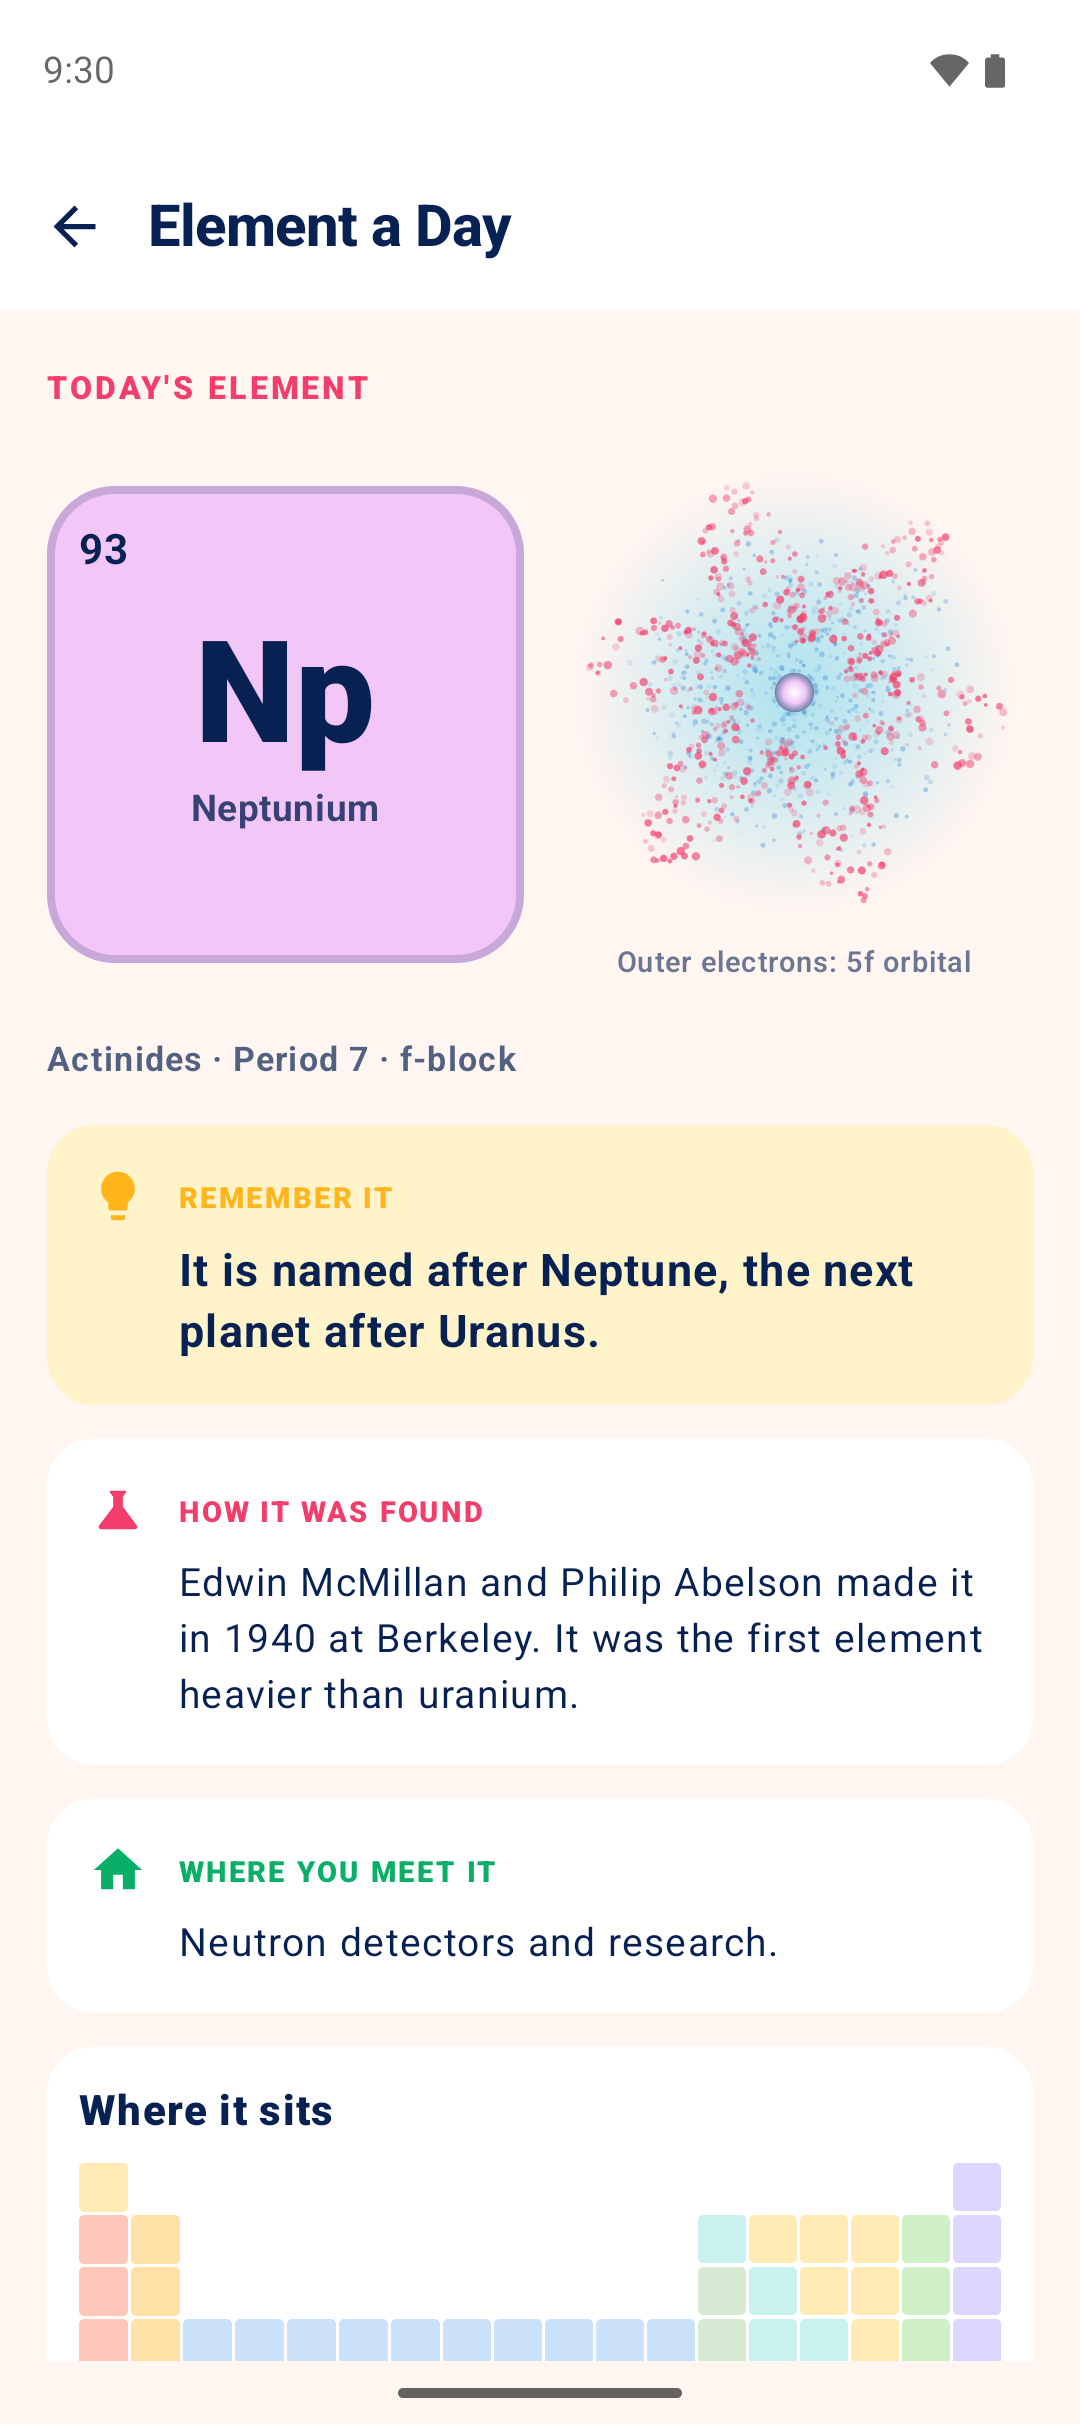
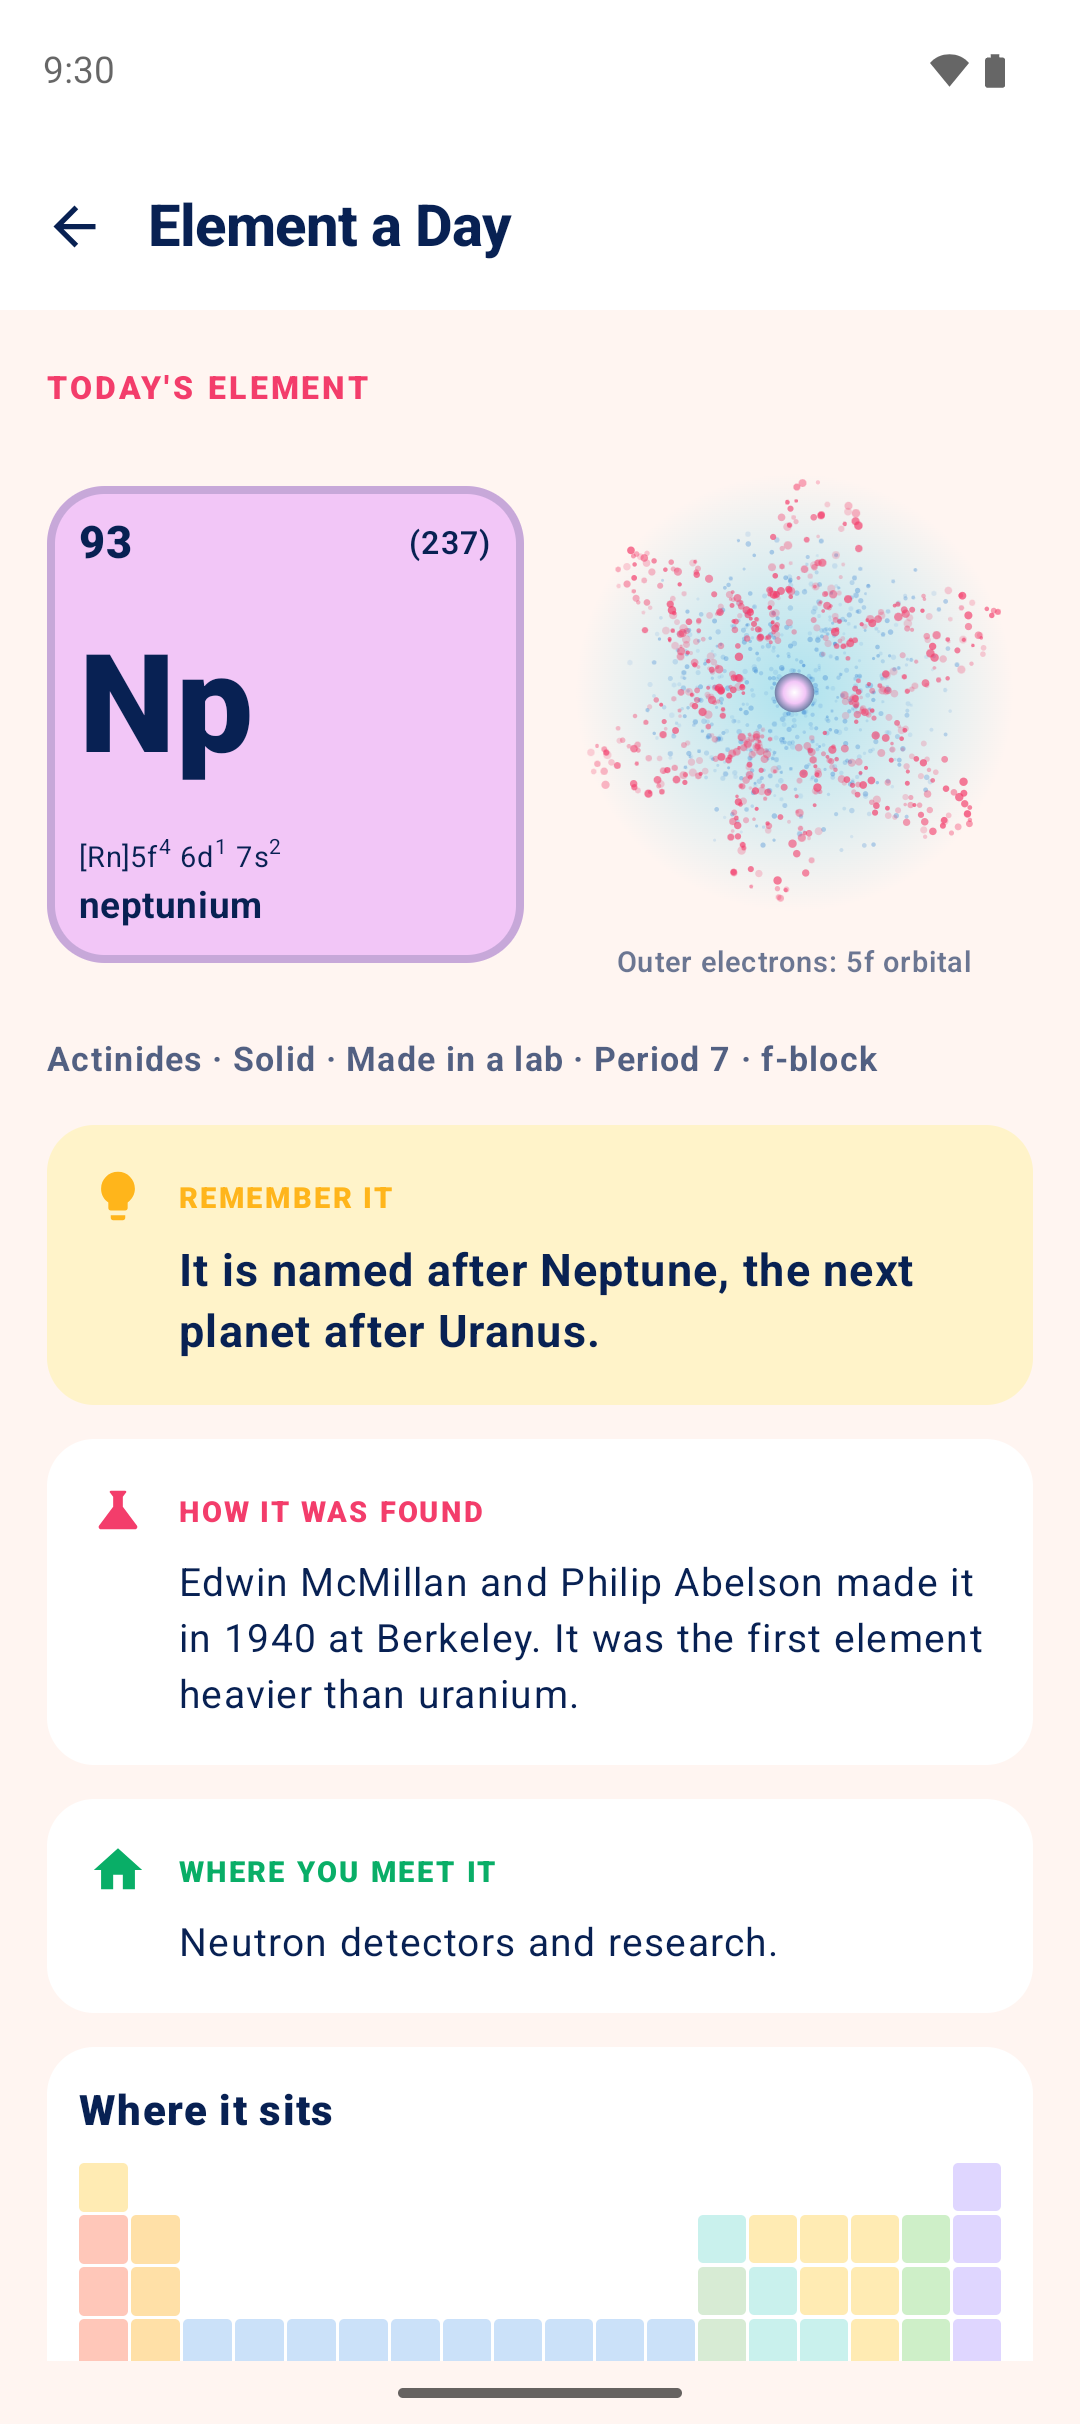
Element tile: atomic weight, electron configuration, state

diff --git a/app/src/main/java/uk/edbetter/kemdaily/data/ElementOfDay.kt b/app/src/main/java/uk/edbetter/kemdaily/data/ElementOfDay.kt
@@ -12,6 +12,12 @@ data class DailyElement(
     val period: Int,
     /** IUPAC group 1–18; null for the lanthanides and actinides shown in the separate f-block rows. */
     val group: Int?,
+    /** Standard atomic weight; values in brackets are the mass number of the longest-lived isotope. */
+    val atomicWeight: String,
+    /** Ground-state configuration in noble-gas shorthand, e.g. [Rn]5f4 6d1 7s2 (digits are superscripts). */
+    val configuration: List<Pair<String, Int>>,
+    val core: String?,
+    val state: String,
     val story: ElementStory,
 )
 
@@ -19,7 +25,9 @@ data class DailyElement(
 data class TablePosition(val row: Int, val column: Int)
 
 object ElementOfDay {
-    val all: List<DailyElement> = ElementCatalog.names.entries.mapIndexed { index, (symbol, name) ->
+    val all: List<DailyElement> by lazy { buildElements() }
+
+    private fun buildElements(): List<DailyElement> = ElementCatalog.names.entries.mapIndexed { index, (symbol, name) ->
         val atomicNumber = index + 1
         val family = family(atomicNumber, symbol)
         DailyElement(
@@ -29,6 +37,10 @@ object ElementOfDay {
             family = family,
             period = period(atomicNumber),
             group = group(atomicNumber),
+            atomicWeight = atomicWeights[index],
+            configuration = valenceConfiguration(atomicNumber),
+            core = nobleCore(atomicNumber)?.let { "[${ElementCatalog.names.keys.elementAt(it - 1)}]" },
+            state = state(atomicNumber, symbol),
             story = ElementStories.forSymbol(symbol),
         )
     }
@@ -43,17 +55,84 @@ object ElementOfDay {
      * order, with the well-known exceptions where an electron moves between shells.
      */
     fun electronShells(atomicNumber: Int): List<Int> {
-        shellExceptions[atomicNumber]?.let { return it }
         val shells = IntArray(7)
+        subshells(atomicNumber).forEach { (n, _, count) -> shells[n - 1] += count }
+        return shells.toList().dropLastWhile { it == 0 }
+    }
+
+    /** Every occupied subshell as (n, l, electrons), using Madelung filling plus the known exceptions. */
+    fun subshells(atomicNumber: Int): List<Triple<Int, Int, Int>> {
+        val filled = mutableListOf<Triple<Int, Int, Int>>()
         var remaining = atomicNumber
         for ((n, l) in madelungOrder) {
             if (remaining == 0) break
             val added = minOf(remaining, 2 * (2 * l + 1))
-            shells[n - 1] += added
+            filled += Triple(n, l, added)
             remaining -= added
         }
-        return shells.toList().dropLastWhile { it == 0 }
+        configurationExceptions[atomicNumber]?.let { changes ->
+            changes.forEach { (n, l, count) ->
+                filled.removeAll { it.first == n && it.second == l }
+                if (count > 0) filled += Triple(n, l, count)
+            }
+        }
+        return filled.sortedWith(compareBy({ it.first }, { it.second }))
     }
+
+    private fun nobleCore(atomicNumber: Int): Int? = listOf(86, 54, 36, 18, 10, 2).firstOrNull { it < atomicNumber }
+
+    private fun valenceConfiguration(atomicNumber: Int): List<Pair<String, Int>> {
+        val core = nobleCore(atomicNumber)?.let(::subshells).orEmpty().map { it.first to it.second }.toSet()
+        return subshells(atomicNumber)
+            .filter { (n, l, count) -> (n to l) !in core || count != 2 * (2 * l + 1) }
+            .map { (n, l, count) -> "$n${"spdf"[l]}" to count }
+    }
+
+    private fun state(atomicNumber: Int, symbol: String): String = when {
+        symbol in setOf("H", "He", "N", "O", "F", "Ne", "Cl", "Ar", "Kr", "Xe", "Rn") -> "Gas"
+        symbol == "Br" || symbol == "Hg" -> "Liquid"
+        atomicNumber >= 100 -> "State unknown"
+        else -> "Solid"
+    }
+
+    private val atomicWeights = listOf(
+        "1.008", "4.0026", "6.94", "9.0122", "10.81", "12.011", "14.007", "15.999", "18.998", "20.180",
+        "22.990", "24.305", "26.982", "28.085", "30.974", "32.06", "35.45", "39.95", "39.098", "40.078",
+        "44.956", "47.867", "50.942", "51.996", "54.938", "55.845", "58.933", "58.693", "63.546", "65.38",
+        "69.723", "72.630", "74.922", "78.971", "79.904", "83.798", "85.468", "87.62", "88.906", "91.224",
+        "92.906", "95.95", "(98)", "101.07", "102.91", "106.42", "107.87", "112.41", "114.82", "118.71",
+        "121.76", "127.60", "126.90", "131.29", "132.91", "137.33", "138.91", "140.12", "140.91", "144.24",
+        "(145)", "150.36", "151.96", "157.25", "158.93", "162.50", "164.93", "167.26", "168.93", "173.05",
+        "174.97", "178.49", "180.95", "183.84", "186.21", "190.23", "192.22", "195.08", "196.97", "200.59",
+        "204.38", "207.2", "208.98", "(209)", "(210)", "(222)", "(223)", "(226)", "(227)", "232.04",
+        "231.04", "238.03", "(237)", "(244)", "(243)", "(247)", "(247)", "(251)", "(252)", "(257)",
+        "(258)", "(259)", "(266)", "(267)", "(268)", "(269)", "(270)", "(269)", "(278)", "(281)",
+        "(282)", "(285)", "(286)", "(289)", "(290)", "(293)", "(294)", "(294)",
+    )
+
+    // (n, l, electrons) overrides; 0 removes a subshell that Madelung filling would have used.
+    private val configurationExceptions: Map<Int, List<Triple<Int, Int, Int>>> = mapOf(
+        24 to listOf(Triple(3, 2, 5), Triple(4, 0, 1)),
+        29 to listOf(Triple(3, 2, 10), Triple(4, 0, 1)),
+        41 to listOf(Triple(4, 2, 4), Triple(5, 0, 1)),
+        42 to listOf(Triple(4, 2, 5), Triple(5, 0, 1)),
+        44 to listOf(Triple(4, 2, 7), Triple(5, 0, 1)),
+        45 to listOf(Triple(4, 2, 8), Triple(5, 0, 1)),
+        46 to listOf(Triple(4, 2, 10), Triple(5, 0, 0)),
+        47 to listOf(Triple(4, 2, 10), Triple(5, 0, 1)),
+        57 to listOf(Triple(4, 3, 0), Triple(5, 2, 1)),
+        58 to listOf(Triple(4, 3, 1), Triple(5, 2, 1)),
+        64 to listOf(Triple(4, 3, 7), Triple(5, 2, 1)),
+        78 to listOf(Triple(5, 2, 9), Triple(6, 0, 1)),
+        79 to listOf(Triple(5, 2, 10), Triple(6, 0, 1)),
+        89 to listOf(Triple(5, 3, 0), Triple(6, 2, 1)),
+        90 to listOf(Triple(5, 3, 0), Triple(6, 2, 2)),
+        91 to listOf(Triple(5, 3, 2), Triple(6, 2, 1)),
+        92 to listOf(Triple(5, 3, 3), Triple(6, 2, 1)),
+        93 to listOf(Triple(5, 3, 4), Triple(6, 2, 1)),
+        96 to listOf(Triple(5, 3, 7), Triple(6, 2, 1)),
+        103 to listOf(Triple(6, 2, 0), Triple(7, 1, 1)),
+    )
 
     /** The last subshell filled in Madelung order, e.g. "2p" for oxygen; this shapes the outer electron cloud. */
     fun outerSubshell(atomicNumber: Int): Pair<Int, Int> {
@@ -68,17 +147,6 @@ object ElementOfDay {
     private val madelungOrder = (1..7).flatMap { n -> (0 until minOf(n, 4)).map { l -> n to l } }
         .sortedWith(compareBy<Pair<Int, Int>>({ it.first + it.second }, { it.first }))
 
-    private val shellExceptions = mapOf(
-        24 to listOf(2, 8, 13, 1), 29 to listOf(2, 8, 18, 1),
-        41 to listOf(2, 8, 18, 12, 1), 42 to listOf(2, 8, 18, 13, 1), 44 to listOf(2, 8, 18, 15, 1),
-        45 to listOf(2, 8, 18, 16, 1), 46 to listOf(2, 8, 18, 18), 47 to listOf(2, 8, 18, 18, 1),
-        57 to listOf(2, 8, 18, 18, 9, 2), 58 to listOf(2, 8, 18, 19, 9, 2), 64 to listOf(2, 8, 18, 25, 9, 2),
-        78 to listOf(2, 8, 18, 32, 17, 1), 79 to listOf(2, 8, 18, 32, 18, 1),
-        89 to listOf(2, 8, 18, 32, 18, 9, 2), 90 to listOf(2, 8, 18, 32, 18, 10, 2),
-        91 to listOf(2, 8, 18, 32, 20, 9, 2), 92 to listOf(2, 8, 18, 32, 21, 9, 2),
-        93 to listOf(2, 8, 18, 32, 22, 9, 2), 96 to listOf(2, 8, 18, 32, 25, 9, 2),
-        103 to listOf(2, 8, 18, 32, 32, 8, 3),
-    )
 
     fun position(element: DailyElement): TablePosition = when (val group = element.group) {
         null -> TablePosition(

diff --git a/app/src/main/java/uk/edbetter/kemdaily/ui/KemistriApp.kt b/app/src/main/java/uk/edbetter/kemdaily/ui/KemistriApp.kt
@@ -102,7 +102,11 @@ import androidx.compose.ui.platform.LocalContext
 import androidx.compose.ui.res.painterResource
 import androidx.compose.ui.semantics.contentDescription
 import androidx.compose.ui.semantics.semantics
+import androidx.compose.ui.text.SpanStyle
+import androidx.compose.ui.text.buildAnnotatedString
 import androidx.compose.ui.text.font.FontWeight
+import androidx.compose.ui.text.style.BaselineShift
+import androidx.compose.ui.text.withStyle
 import androidx.compose.ui.text.style.TextAlign
 import androidx.compose.ui.unit.dp
 import androidx.compose.ui.unit.sp
@@ -1064,21 +1068,36 @@ private fun ElementOfDayScreen(nav: NavHostController, viewModel: MainViewModel)
             }
             item {
                 Row(horizontalArrangement = Arrangement.spacedBy(12.dp), verticalAlignment = Alignment.CenterVertically) {
-                    Box(
+                    Column(
                         Modifier.weight(1f).aspectRatio(1f)
-                            .background(tint, RoundedCornerShape(26.dp))
-                            .border(3.dp, Navy.copy(alpha = .18f), RoundedCornerShape(26.dp))
-                            .semantics { contentDescription = "${element.name}, symbol ${element.symbol}, atomic number ${element.atomicNumber}" },
+                            .background(tint, RoundedCornerShape(22.dp))
+                            .border(3.dp, Navy.copy(alpha = .18f), RoundedCornerShape(22.dp))
+                            .padding(horizontal = 12.dp, vertical = 10.dp)
+                            .semantics {
+                                contentDescription = "${element.name}, symbol ${element.symbol}, atomic number ${element.atomicNumber}, " +
+                                    "atomic weight ${element.atomicWeight}, electron configuration " +
+                                    (element.core.orEmpty() + " " + element.configuration.joinToString(" ") { "${it.first} ${it.second}" })
+                            },
                     ) {
-                        Text(
-                            element.atomicNumber.toString(),
-                            Modifier.align(Alignment.TopStart).padding(12.dp),
-                            color = Navy, fontWeight = FontWeight.Bold, fontSize = 16.sp,
-                        )
-                        Column(Modifier.align(Alignment.Center), horizontalAlignment = Alignment.CenterHorizontally) {
-                            Text(element.symbol, color = Navy, fontWeight = FontWeight.Black, fontSize = 54.sp)
-                            Text(element.name, color = Navy.copy(alpha = .8f), fontWeight = FontWeight.Bold, fontSize = 14.sp)
+                        Row(Modifier.fillMaxWidth(), verticalAlignment = Alignment.CenterVertically) {
+                            Text(element.atomicNumber.toString(), color = Navy, fontWeight = FontWeight.Black, fontSize = 17.sp, modifier = Modifier.weight(1f))
+                            Text(element.atomicWeight, color = Navy, fontWeight = FontWeight.SemiBold, fontSize = 12.sp)
                         }
+                        Box(Modifier.weight(1f).fillMaxWidth(), contentAlignment = Alignment.CenterStart) {
+                            Text(element.symbol, color = Navy, fontWeight = FontWeight.Black, fontSize = 52.sp)
+                        }
+                        Text(
+                            buildAnnotatedString {
+                                element.core?.let(::append)
+                                element.configuration.forEachIndexed { index, (subshell, count) ->
+                                    if (index > 0) append(" ")
+                                    append(subshell)
+                                    withStyle(SpanStyle(baselineShift = BaselineShift.Superscript, fontSize = 8.sp)) { append(count.toString()) }
+                                }
+                            },
+                            color = Navy, fontSize = 11.sp, lineHeight = 14.sp, maxLines = 2,
+                        )
+                        Text(element.name.lowercase(), color = Navy, fontWeight = FontWeight.Bold, fontSize = 14.sp, maxLines = 1)
                     }
                     val shells = remember(element) { ElementOfDay.electronShells(element.atomicNumber) }
                     val outer = remember(element) { ElementOfDay.outerSubshell(element.atomicNumber) }
@@ -1093,7 +1112,10 @@ private fun ElementOfDayScreen(nav: NavHostController, viewModel: MainViewModel)
             }
             item {
                 Text(
-                    listOf(element.family, "Period ${element.period}", element.group?.let { "Group $it" } ?: "f-block").joinToString(" · "),
+                    listOfNotNull(
+                        element.family, element.state, "Made in a lab".takeIf { element.atomicNumber >= 93 },
+                        "Period ${element.period}", element.group?.let { "Group $it" } ?: "f-block",
+                    ).joinToString(" · "),
                     color = Navy.copy(alpha = .7f), fontWeight = FontWeight.Bold, fontSize = 13.sp,
                 )
             }

diff --git a/app/src/test/java/uk/edbetter/kemdaily/data/ElementOfDayTest.kt b/app/src/test/java/uk/edbetter/kemdaily/data/ElementOfDayTest.kt
@@ -64,4 +64,22 @@ class ElementOfDayTest {
         assertEquals(5 to 3, ElementOfDay.outerSubshell(93))
         assertEquals(7 to 1, ElementOfDay.outerSubshell(118))
     }
+
+    private fun config(symbol: String) = ElementOfDay.bySymbol(symbol)!!.let { element ->
+        element.core.orEmpty() + element.configuration.joinToString(" ") { (subshell, count) -> "$subshell$count" }
+    }
+
+    @Test fun configurationsUseNobleGasShorthand() {
+        assertEquals("1s1", config("H"))
+        assertEquals("[Ne]3s1", config("Na"))
+        assertEquals("[Ar]3d5 4s1", config("Cr"))
+        assertEquals("[Ar]3d10 4s1", config("Cu"))
+        assertEquals("[Kr]4d10", config("Pd"))
+        assertEquals("[Xe]4f14 5d10 6s1", config("Au"))
+        assertEquals("[Rn]5f4 6d1 7s2", config("Np"))
+        assertEquals("[Rn]5f14 7s2 7p1", config("Lr"))
+        assertEquals("(237)", ElementOfDay.bySymbol("Np")!!.atomicWeight)
+        assertEquals("Liquid", ElementOfDay.bySymbol("Br")!!.state)
+        assertEquals("Gas", ElementOfDay.bySymbol("Rn")!!.state)
+    }
 }
